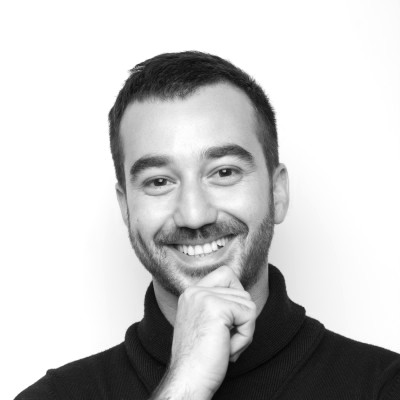
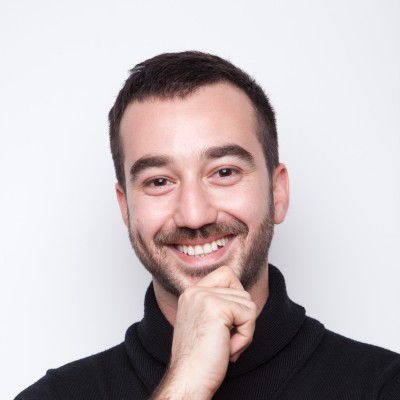
Updated team pics and page.

Changed region(s): [[0.27, 0.21, 0.72, 1.0]]

diff --git a/content/en/team.html b/content/en/team.html
@@ -74,16 +74,8 @@
         </p>
       </div>
 
-      <div class="w-50 w-third-l fl pt4 tc tl-l">
-        <img src="/assets/faces/joao.jpg" class="w-30 br-100 ba b--blue pa1" />
-        <h5 class="serif f4 mv2 ttu">João Igor</h5>
-        <p class="f6 silver">
-          Web Strategy Advisor, Portugal
-        </p>
-      </div>
-
       <div class="w-50 w-third-l center fl-l  pt4 tc tl-l">
-        <img src="/assets/faces/rob.jpg" class="w-30 mt4 mt0-l br-100 ba b--blue pa1" />
+        <img src="/assets/faces/robson.jpg" class="w-30 mt4 mt0-l br-100 ba b--blue pa1" />
         <h5 class="serif f4 mv2 ttu">Robson Santos</h5>
         <p class="f6 silver">
           UX Designer, Brazil
